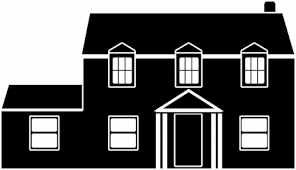
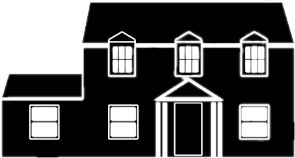
playing with colors

Changed region(s): [[0.0, 0.0, 1.0, 1.0], [0.7932, 0.6329, 0.9458, 0.9114], [0.3356, 0.6582, 0.4881, 0.9114]]

diff --git a/js/floodChart.js b/js/floodChart.js
@@ -77,8 +77,8 @@ FloodChart.prototype.initVis = function() {
         .attr("class", "y-axis-group");
 
     // Initialize Land Line
-    jFlood.svg.append("path")
-        .attr("class", "elev-line");
+    // jFlood.svg.append("path")
+    //     .attr("class", "elev-line");
 
     // // Initialize Water Level
     // jFlood.svg.append("path")
@@ -172,14 +172,14 @@ FloodChart.prototype.updateVis = function() {
         .attr("d", jFlood.elevArea(jFlood.elevationData));
 
     // Build LAND line
-    jFlood.line = d3.svg.line()
-        .x(function(d) { return jFlood.x(d.index); })
-        .y(function(d) { return jFlood.y(d.elevation); })
-        .interpolate(jFlood.interpolate_value);
-
-    jFlood.svg.selectAll(".elev-line")
-        .transition().duration(800)
-        .attr("d", jFlood.line(jFlood.elevationData));
+    // jFlood.line = d3.svg.line()
+    //     .x(function(d) { return jFlood.x(d.index); })
+    //     .y(function(d) { return jFlood.y(d.elevation); })
+    //     .interpolate(jFlood.interpolate_value);
+    //
+    // jFlood.svg.selectAll(".elev-line")
+    //     .transition().duration(800)
+    //     .attr("d", jFlood.line(jFlood.elevationData));
 
 
     // Build WATER Area
@@ -244,14 +244,14 @@ FloodChart.prototype.updateVis = function() {
     //     });
     //
 
-    jFlood.twoStoryHeight = Math.abs(jFlood.y(240) - jFlood.y(223));
-    jFlood.sixFtTall = Math.abs(jFlood.y(229) - jFlood.y(223));
+    jFlood.twoStoryHeight = Math.abs(jFlood.y(241) - jFlood.y(223));
+    jFlood.sixFtTall = Math.abs(jFlood.y(228.75) - jFlood.y(223));
     var icons = jFlood.svg.append("g")
         .attr("class","icons");
 
     var house_index = 73;
-    var person_index = 102;
-    var house_width = 85;
+    var person_index = 115;
+    var house_width = 160;
     var person_width = 25;
 
     icons.append("image")
@@ -275,7 +275,7 @@ FloodChart.prototype.updateVis = function() {
         .attr("x",jFlood.x(house_index) + house_width/2)
         .attr("y",jFlood.y(jFlood.minFloodElev - 2))
         .attr("text-anchor","middle")
-        .html("1-Story House: ");
+        .html("2-Story House: ");
 
     jFlood.svg.append("text")
         .attr("class","icon-label-text")
@@ -288,7 +288,7 @@ FloodChart.prototype.updateVis = function() {
         .attr("x",jFlood.x(house_index) + house_width/2)
         .attr("y",jFlood.y(jFlood.minFloodElev - 3.5))
         .attr("text-anchor","middle")
-        .html("10ft.");
+        .html("18ft.");
     jFlood.svg.append("text")
         .attr("class","icon-label-text")
         .attr("x",jFlood.x(person_index) + person_width/2)

diff --git a/css/jstyle.css b/css/jstyle.css
@@ -83,7 +83,7 @@ select {
     stroke: #1C9A3D;
 }
 .land-area{
-    fill: #c6fbcb;
+    fill: rgba(105, 171, 111, 1);
     stroke-width: 0;
 }
 .water-area{
@@ -230,7 +230,7 @@ select {
     padding-top:20px;
     margin-left:30px;
     margin-right:30px;
-    background: rgba(255,255,255,0.72);
+    background: rgba(255,255,255,0.50);
 }
 
 .vis-intro-text{
@@ -247,8 +247,9 @@ select {
 }
 
 .max-height-line-text{
-    fill:red;
-    fill-opacity: 0.6;
+    fill: #b94141;
+    font-weight: bold;
+    fill-opacity: 1;
 }
 
 /*.icon-label-text{*/
